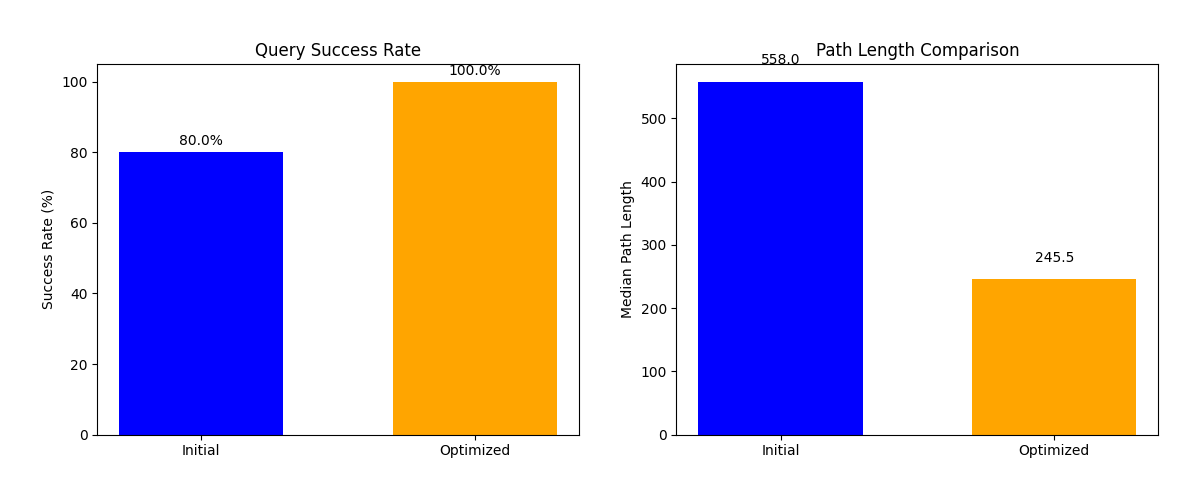
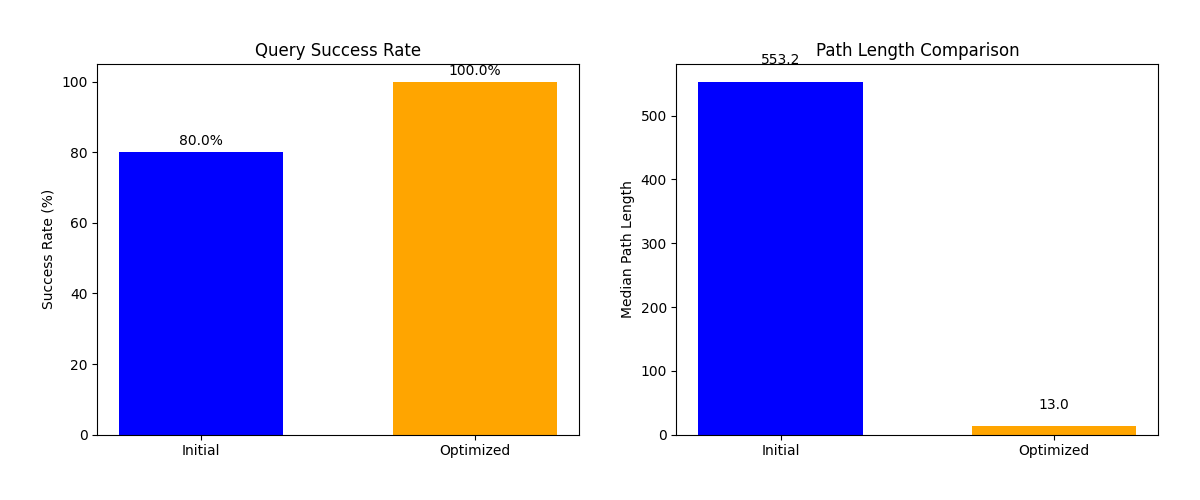
idea 2

diff --git a/bogoDB/candidate_submission/optimize_graph.py b/bogoDB/candidate_submission/optimize_graph.py
@@ -122,15 +122,33 @@ def optimize_graph(
     # sophisticated strategy based on query analysis!
     # ---------------------------------------------------------------
 
-    # Create a copy of the initial graph to modify
-    nodes = []
+    node_list = []
+    important_nodes = {}
+
+    # gets nodes that were queried
+    for res in results['detailed_results']:
+        node = str(res['target'])
+        if not node in important_nodes:
+            important_nodes[node] = 0
+        important_nodes[node] += 1
+
     optimized_graph = {}
+    # creates list of all nodes
     for node, edges in initial_graph.items():
-        nodes.append(node)
+        node_list.append(node)
         optimized_graph[node] = dict()
 
-    for i in range(len(nodes)):
-        optimized_graph[nodes[i]][nodes[(i + 1)%len(nodes)]] = 1
+    # create small cycle
+    important_nodes_list = [key for key, value in important_nodes.items()]
+    for i in range(len(important_nodes_list)):
+        u = important_nodes_list[i]
+        v = important_nodes_list[(i + 1)%len(important_nodes_list)]
+        optimized_graph[u][v] = 1
+
+    # feed other nodes into small cycle
+    for i in node_list:
+        if not i in important_nodes:
+            optimized_graph[i][important_nodes_list[0]] = 1
 
 
     # =============================================================

diff --git a/solution.md b/solution.md
@@ -7,6 +7,8 @@ I spent way too long trying to get the emojis to render :(
 
 For my first idea, I decided to solve a simpler version of the problem, ignoring the exponential distribution. Instead, I guaranteed that every query would reach its desired node by creating a big cycle. This idea achieved a score of a bit over 200.
 
+After running this, I notice that there are very few distinct nodes that are actually queried, so there is really no need to search over a very large cycle. Instead, we could have a small cycle consisting of the relevant nodes, and have all the unnecessary nodes feed into the cycle. This increases our score to around 470.
+
 
 ### Optimization Strategy
 
